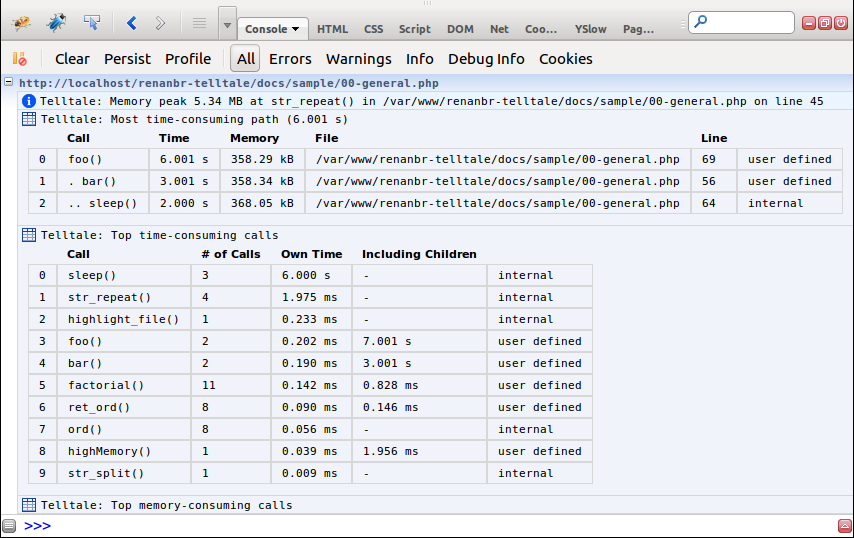
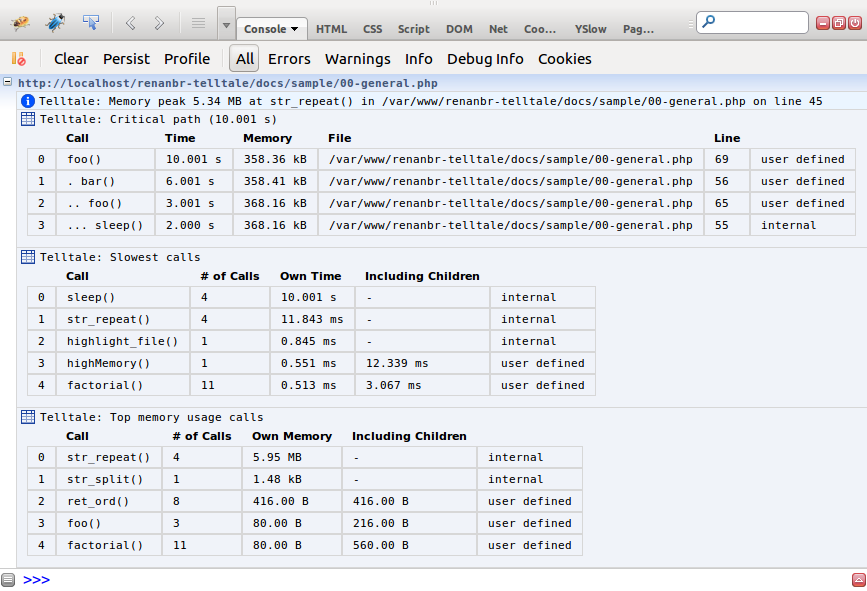
overview update

Changed region(s): [[0.0, 0.0, 1.0, 1.0], [0.9742, 0.8922, 1.0, 0.9219]]

diff --git a/README.md b/README.md
@@ -2,12 +2,15 @@
 
 __Statistics that help you improve application performance.__
 
-_Telltale_ analyses current execution and provides information about possible bottlenecks in your application. Output reports are automatically sent to console of your browser, such as:
+_Telltale_ analyses current execution and provides information about possible bottlenecks in your application.
+Analyzes are executed by _agents_.
+Output reports are automatically sent to console of your browser.
+Default _agents_:
 
-- Most time-consuming path;
-- Most time-consuming calls;
-- Most memory-consuming calls;
-- Memory peak.
+- __MemoryPeakAgent__: top memory usage;
+- __CriticalPathAgent__: shows the most time-consuming path;
+- __SlowestCallsCallsAgent__: shows slowest calls;
+- __MemoryUsageCallsAgent__: shows top memory usage calls.
 
 <p align="center">
 ![](https://raw.github.com/renanbr/telltale/master/docs/images/screenshot/overview.png)
